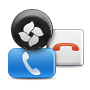
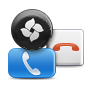
fix(art): the 6.5 Buttons flower is centred in the whole orb (32, 30.5), not its dark area under the highlight (#805)
It sat 3.5 px low and 1 px left on the 90 px grid. Measured after: centre 32.0,30.0 (1x, 2x), 32.25,30.5 (4x).

Changed region(s): [[0.2, 0.2, 0.4889, 0.5333]]

diff --git a/scripts/build-wm65-flower-icons.py b/scripts/build-wm65-flower-icons.py
@@ -42,7 +42,9 @@ SIBS = os.path.join(REPO, 'public/static_images/wm65')  # the untouched sibling 
 # where the flag sat (x0, y0, x1, y1 in the 90 px grid; measured on the ROM art) and the logo used
 LOGO = {
     'start-settingss': {'box': (41.5, 40.0, 85.5, 79.0), 'logo': 'colour', 'shadow': (0.5, 1.0, 0.8, 0.50)},
-    'start-buttons': {'box': (18.5, 25.0, 44.5, 43.5), 'logo': 'white', 'shadow': (0.0, 0.5, 0.5, 0.45)},
+    # centred on the orb's circle (top y 9, widest row x 11..53: centre 32, 30.5, r 21), not on its dark
+    # area under the glass highlight, which sat the flower 3.5 px low (Yukimi, Nov 13)
+    'start-buttons': {'box': (20.0, 18.5, 44.0, 42.5), 'logo': 'white', 'shadow': (0.0, 0.5, 0.5, 0.45)},
     'start-update': {'box': (6.0, 0.0, 66.0, 61.0), 'logo': 'colour', 'shadow': (1.0, 1.5, 1.2, 0.45)},
 }
 
